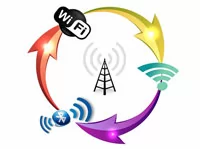
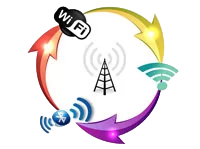
переделаны файлы с картинками - добавлен прозрачный фон

diff --git a/css/style.min.css b/css/style.min.css
@@ -1,1 +1,1 @@
-@media (min-width:320px){.production,.production__item{display:flex;flex-direction:column}.production{margin-top:50px}.production__item{width:100%;padding:10px;margin:0 10px 10px;outline:1px solid #e6e6e6;box-shadow:0 0 8px #e6e6e6;box-sizing:border-box}.production__item:hover{box-shadow:0 0 8px #000}.production__picture{width:100%;margin:10px;text-align:center}.production__picture img{max-width:100%;height:auto}.production__description{width:100%;font-size:.8em}.production__title{text-align:center}.production__features{font-style:italic;margin-bottom:1em}.production__download{position:relative}.production__download svg{position:absolute;top:-2px;left:0;width:20px;height:20px;stroke:red}.production__download:hover svg{stroke:#00f}.production__manual{padding-left:25px;color:#00f}.production__sertificate{color:#00f}.production__price{margin-top:10px;text-align:center}}@media (min-width:480px){.production{align-items:center}.production__item{flex-direction:row;width:65%}}@media (min-width:800px){.production__item{flex-direction:row;width:40%}.production{flex-direction:row;flex-wrap:wrap;align-items:stretch}.production__picture{width:40%;align-self:baseline}.production__description{width:55%}}@media (min-width:1200px){.production__item{width:30%}}@media (min-width:320px){.catalog-header__title{display:block;width:320px;margin:10px auto;text-align:center}}@media (min-width:800px){.catalog-header__title{display:inline-block;margin-left:20px;text-align:left}}@media (min-width:1200px){.catalog-header__title{margin-left:50px}}body,html{height:100%}.wrap-height-block{min-height:100%}.empty-height-container{height:230px}.catalog-main ul li,nav ul li,ul li{list-style:none}a{text-decoration:none;color:inherit;outline:none}.wrapper{width:70%;margin:0 auto}header{background-color:#e6e6e6;padding:10px 0 5px;margin:0}header h1,header picture{display:inline-block;vertical-align:middle}header picture{margin:0;width:300px}header h1{width:40%;margin-left:3%;margin-top:0;font-size:.9em;line-height:1.3em}.contacts{width:180px;float:right;margin-top:15px}.clearfix{content:"";clear:both;display:table}nav ul li{display:inline-block;vertical-align:top;margin-right:70px;font-size:1.3em}.active a{position:relative}.active a:after{position:absolute;content:'';bottom:-24px;left:50%;margin-left:-12px;border:12px solid transparent;border-top:12px solid #e6e6e6;-webkit-animation:triangle 500ms forwards;animation:triangle 500ms forwards}@-webkit-keyframes triangle{0%{opacity:0}to{opacity:1}}@keyframes triangle{0%{opacity:0}to{opacity:1}}p,ul{padding:0;margin:0}nav{float:right;margin-top:15px}nav a{padding:10px 10px 5px}.active a,nav a:hover{color:rgba(0,0,0,.6)}.feedback-form label,.stac{display:block}.catalog-main input[type=radio],.mobile{display:none}header .email,header .phone{position:relative;padding-left:35px}header .phone{margin-bottom:10px}header .email:before,header .phone:before{background:url(../img/sprites.png) no-repeat;position:absolute;content:'';top:1px;left:3px;width:19px;height:19px;background-position:0 0}header .email:before{left:0;width:24px;height:17px;background-position:-21px -1px}.services-main{margin:40px 20px}.services-main h2{position:relative;font-size:1.1em}.services-main h2:hover{cursor:pointer;color:rgba(0,0,0,.7)}.services-main h2:before{left:0}.services-main h2:after,.services-main h2:before{content:'';position:absolute;width:15px;height:4px;top:50%;background-color:#00f}.services-main h2:before{-webkit-transform:rotate(45deg);transform:rotate(45deg)}.services-main h2:after{-webkit-transform:rotate(-45deg);transform:rotate(-45deg);left:8px}@-webkit-keyframes close-animation-triangle{0%{background-color:#00f}to{background-color:#1e90ff}}@keyframes close-animation-triangle{0%{background-color:#00f}to{background-color:#1e90ff}}@-webkit-keyframes close-animation-font{0%{color:#000}to{color:rgba(0,0,0,.6)}}@keyframes close-animation-font{0%{color:#000}to{color:rgba(0,0,0,.6)}}.services-main h2.close{-webkit-animation:close-animation-font 1s forwards;-ms-animation:close-animation-font 1s forwards;animation:close-animation-font 1s forwards}.services-main h2.close:before{left:0}.services-main h2.close:after,.services-main h2.close:before{-webkit-animation:close-animation-triangle 1s forwards;-ms-animation:close-animation-triangle 1s forwards;animation:close-animation-triangle 1s forwards;content:'';position:absolute;width:15px;height:4px;top:50%}.services-main h2.close:before{-webkit-transform:rotate(-45deg);transform:rotate(-45deg)}.services-main h2.close:after{-webkit-transform:rotate(45deg);transform:rotate(45deg);left:8px}.services-main .brief,.services-main .full{padding-left:35px;padding-right:35px}.services-main .full{line-height:1.7em}.service{padding:5px 0 5px 30px;margin-bottom:10px;background-color:#e6e6e6;border-radius:10px}.catalog-main ul label{display:block;padding:10px;background-color:#e6e6e6;cursor:pointer;border-bottom:1px solid #d3d3d3;transition:background-color 300ms}.catalog-main ul li:last-child label{border-bottom:none}#all-catalog:checked~.nav-catalog-block label[for=all-catalog],#equipment:checked~.nav-catalog-block label[for=equipment],#software:checked~.nav-catalog-block label[for=software]{position:relative;background-color:#1e90ff;color:#fff;cursor:default}#all-catalog:checked~.nav-catalog-block label[for=all-catalog]:after,#equipment:checked~.nav-catalog-block label[for=equipment]:after,#software:checked~.nav-catalog-block label[for=software]:after{position:absolute;content:'';cursor:default;right:-14px;top:6px;width:29px;height:29px;background-color:#fff;-webkit-transform:rotate(45deg);transform:rotate(45deg)}.production-block .production-group{display:none}#all-catalog:checked~.production-block .production-group:nth-child(1),#equipment:checked~.production-block .production-group:nth-child(2),#software:checked~.production-block .production-group:nth-child(3){display:-ms-flexbox;display:flex;-ms-flex-wrap:wrap;flex-wrap:wrap}.nav-catalog-block{width:180px;margin-top:50px;float:left}.contacts-main{margin-top:20px;margin-bottom:40px}.feedback-form,.map{box-sizing:border-box}.feedback-form{padding-right:50px;float:left;width:40%}.feedback-form form{width:250px;margin:0 auto}.feedback-form textarea{resize:none}.feedback-form input[type=text],.feedback-form textarea{margin-bottom:10px;display:block}.feedback-form .send-email{padding:5px 10px;display:block;margin:0 auto;cursor:pointer}.feedback-form .request-send-success{margin-top:10px;font-size:11px;text-align:center;color:green}.feedback-form .request-send-error{font-size:12px;text-align:center;color:red}.map{float:right;width:60%;max-height:500px;padding:0 10px}#yandex-map{height:400px}.show-map{display:none}.map-title,.write-us{width:200px;padding:10px 5px;text-align:center;margin:10px auto;background-color:#e6e6e6;border-radius:20px;color:#000;font-size:18px;font-weight:400}.button-back,.show-map{text-align:center;margin:10px auto;background-color:#6495ed}.show-map{color:#000;font-size:18px;font-weight:400;width:200px;padding:10px 5px;border-radius:20px}.feedback-form label.error{font-size:.8em;color:red;font-weight:700;display:block;margin-top:-10px}.feedback-form input.error,.feedback-form textarea.error{background:#ffa9b8;border:1px solid red}.button-back{display:block;width:70px;padding:10px;border-radius:10px}.feedback-item{line-height:1.4em;margin-bottom:.5em}.flex-container{display:-ms-flexbox;display:flex;-ms-flex-align:center;align-items:center;-ms-flex-pack:distribute;justify-content:space-around;-ms-flex-wrap:wrap;flex-wrap:wrap;-ms-flex-direction:row;flex-direction:row}.catalog-footer,.contacts-footer,.services-footer{margin-top:-183px;text-align:center;background-color:#e6e6e6}.company-address,.company-phone{position:relative;padding:20px 0 20px 35px}.company-address:before{width:15px;background:url(../img/address.svg) no-repeat;background-size:15px 30px}.company-address:before,.company-phone:before,.company-web:before{content:'';position:absolute;height:30px;top:50%;margin-top:-15px;left:0}.company-phone:before{background:url(../img/phone.svg) no-repeat;width:15px;background-size:15px 30px}.years{width:130px;margin:10px auto 0;padding-bottom:20px}.company-web{position:relative;padding:20px 0 20px 40px}.company-web:before{width:30px;background:url(../img/web.svg) no-repeat;background-size:30px 30px}@media (max-width:399px){.wrapper{width:100%}.mobile{display:block}.stac,header picture{display:none}header h1,nav{width:auto;text-align:center}header h1{margin-left:0}.contacts{float:none;margin:0 auto}nav{float:none}nav ul li{margin:0 0 10px}nav ul li:last-of-type{margin-bottom:0}.production{display:flex;flex-wrap:wrap}.map{display:none}.show-map{display:block}.feedback-form{float:none;width:100%;padding-right:0}.logo-footer{display:none}.company-address,.company-phone,.company-web{margin-top:0}#yandex-map{border:1px dashed #000}.loading-map-message{-webkit-animation:blinktitle 500ms;animation:blinktitle 500ms}@-webkit-keyframes blinktitle{0%{color:green}to{color:#00008b}}@keyframes blinktitle{0%{color:green}to{color:#00008b}}}@media (min-width:400px) and (max-width:799px){.wrapper{width:100%}header picture{width:auto;display:block}header h1,header picture,nav{text-align:center}header h1{display:block;margin:0 auto;width:90%}.contacts{float:none;margin:0 auto}nav{width:auto;float:none}nav ul li{margin:0 10px 15px}nav ul li:last-of-type{margin-bottom:0}.active a:after{bottom:-24px}.nav-catalog-block,.production-block{float:none;margin:40px auto}.map{float:none;width:100%}#yandex-map{border:1px dashed #000}#yandex-map,.loading-map-message{margin:0 90px}.feedback-form{float:none;width:100%;padding-right:0}.logo-footer{display:none}.company-address,.company-phone,.company-web{margin-top:0}.feedback-items{max-width:380px;margin:0 auto}}@media (min-width:800px) and (max-width:1023px){.wrapper{width:95%}}@media (min-width:1024px){.wrapper{width:96%}.contacts{margin-right:50px}.feedback-items{max-width:380px;margin:0 auto}}
+@media (min-width:320px){.production,.production__item{display:-ms-flexbox;display:flex;-ms-flex-direction:column;flex-direction:column}.production{margin-top:50px}.production__item{width:100%;padding:10px;margin:0 10px 10px;outline:1px solid #e6e6e6;box-shadow:0 0 8px #e6e6e6;box-sizing:border-box}.production__item:hover{box-shadow:0 0 8px #000}.production__picture{width:100%;margin:10px;text-align:center}.production__picture img{max-width:100%;height:auto}.production__description{width:100%;font-size:.8em}.production__title{text-align:center}.production__features{font-style:italic;margin-bottom:1em}.production__download{position:relative}.production__download svg{position:absolute;top:-2px;left:0;width:20px;height:20px;stroke:red}.production__download:hover svg{stroke:#00f}.production__manual{padding-left:25px;color:#00f}.production__sertificate{color:#00f}.production__price{margin-top:10px;text-align:center}}@media (min-width:480px){.production{-ms-flex-align:center;align-items:center}.production__item{-ms-flex-direction:row;flex-direction:row;width:65%}}@media (min-width:800px){.production,.production__item{-ms-flex-direction:row;flex-direction:row}.production__item{width:40%}.production{-ms-flex-wrap:wrap;flex-wrap:wrap;-ms-flex-align:stretch;align-items:stretch}.production__picture{width:40%;-ms-flex-item-align:baseline;align-self:baseline}.production__description{width:55%}}@media (min-width:1200px){.production__item{width:30%}}@media (min-width:320px){.catalog-header__title{display:block;width:320px;margin:10px auto;text-align:center}}@media (min-width:800px){.catalog-header__title{display:inline-block;margin-left:20px;text-align:left}}@media (min-width:1200px){.catalog-header__title{margin-left:50px}}body,html{height:100%}.wrap-height-block{min-height:100%}.empty-height-container{height:230px}.catalog-main ul li,nav ul li,ul li{list-style:none}a{text-decoration:none;color:inherit;outline:none}.wrapper{width:70%;margin:0 auto}header{background-color:#e6e6e6;padding:10px 0 5px;margin:0}header h1,header picture{display:inline-block;vertical-align:middle}header picture{margin:0;width:300px}header h1{width:40%;margin-left:3%;margin-top:0;font-size:.9em;line-height:1.3em}.contacts{width:180px;float:right;margin-top:15px}.clearfix{content:"";clear:both;display:table}nav ul li{display:inline-block;vertical-align:top;margin-right:70px;font-size:1.3em}.active a{position:relative}.active a:after{position:absolute;content:'';bottom:-24px;left:50%;margin-left:-12px;border:12px solid transparent;border-top:12px solid #e6e6e6;-webkit-animation:triangle 500ms forwards;animation:triangle 500ms forwards}@-webkit-keyframes triangle{0%{opacity:0}to{opacity:1}}@keyframes triangle{0%{opacity:0}to{opacity:1}}p,ul{padding:0;margin:0}nav{float:right;margin-top:15px}nav a{padding:10px 10px 5px}.active a,nav a:hover{color:rgba(0,0,0,.6)}.feedback-form label,.stac{display:block}.catalog-main input[type=radio],.mobile{display:none}header .email,header .phone{position:relative;padding-left:35px}header .phone{margin-bottom:10px}header .email:before,header .phone:before{background:url(../img/sprites.png) no-repeat;position:absolute;content:'';top:1px;left:3px;width:19px;height:19px;background-position:0 0}header .email:before{left:0;width:24px;height:17px;background-position:-21px -1px}.services-main{margin:40px 20px}.services-main h2{position:relative;font-size:1.1em}.services-main h2:hover{cursor:pointer;color:rgba(0,0,0,.7)}.services-main h2:before{left:0}.services-main h2:after,.services-main h2:before{content:'';position:absolute;width:15px;height:4px;top:50%;background-color:#00f}.services-main h2:before{-webkit-transform:rotate(45deg);transform:rotate(45deg)}.services-main h2:after{-webkit-transform:rotate(-45deg);transform:rotate(-45deg);left:8px}@-webkit-keyframes close-animation-triangle{0%{background-color:#00f}to{background-color:#1e90ff}}@keyframes close-animation-triangle{0%{background-color:#00f}to{background-color:#1e90ff}}@-webkit-keyframes close-animation-font{0%{color:#000}to{color:rgba(0,0,0,.6)}}@keyframes close-animation-font{0%{color:#000}to{color:rgba(0,0,0,.6)}}.services-main h2.close{-webkit-animation:close-animation-font 1s forwards;-ms-animation:close-animation-font 1s forwards;animation:close-animation-font 1s forwards}.services-main h2.close:before{left:0}.services-main h2.close:after,.services-main h2.close:before{-webkit-animation:close-animation-triangle 1s forwards;-ms-animation:close-animation-triangle 1s forwards;animation:close-animation-triangle 1s forwards;content:'';position:absolute;width:15px;height:4px;top:50%}.services-main h2.close:before{-webkit-transform:rotate(-45deg);transform:rotate(-45deg)}.services-main h2.close:after{-webkit-transform:rotate(45deg);transform:rotate(45deg);left:8px}.services-main .brief,.services-main .full{padding-left:35px;padding-right:35px}.services-main .full{line-height:1.7em}.service{padding:5px 0 5px 30px;margin-bottom:10px;background-color:#e6e6e6;border-radius:10px}.catalog-main ul label{display:block;padding:10px;background-color:#e6e6e6;cursor:pointer;border-bottom:1px solid #d3d3d3;transition:background-color 300ms}.catalog-main ul li:last-child label{border-bottom:none}#all-catalog:checked~.nav-catalog-block label[for=all-catalog],#equipment:checked~.nav-catalog-block label[for=equipment],#software:checked~.nav-catalog-block label[for=software]{position:relative;background-color:#1e90ff;color:#fff;cursor:default}#all-catalog:checked~.nav-catalog-block label[for=all-catalog]:after,#equipment:checked~.nav-catalog-block label[for=equipment]:after,#software:checked~.nav-catalog-block label[for=software]:after{position:absolute;content:'';cursor:default;right:-14px;top:6px;width:29px;height:29px;background-color:#fff;-webkit-transform:rotate(45deg);transform:rotate(45deg)}.production-block .production-group{display:none}#all-catalog:checked~.production-block .production-group:nth-child(1),#equipment:checked~.production-block .production-group:nth-child(2),#software:checked~.production-block .production-group:nth-child(3){display:-ms-flexbox;display:flex;-ms-flex-wrap:wrap;flex-wrap:wrap}.nav-catalog-block{width:180px;margin-top:50px;float:left}.contacts-main{margin-top:20px;margin-bottom:40px}.feedback-form,.map{box-sizing:border-box}.feedback-form{padding-right:50px;float:left;width:40%}.feedback-form form{width:250px;margin:0 auto}.feedback-form textarea{resize:none}.feedback-form input[type=text],.feedback-form textarea{margin-bottom:10px;display:block}.feedback-form .send-email{padding:5px 10px;display:block;margin:0 auto;cursor:pointer}.feedback-form .request-send-success{margin-top:10px;font-size:11px;text-align:center;color:green}.feedback-form .request-send-error{font-size:12px;text-align:center;color:red}.map{float:right;width:60%;max-height:500px;padding:0 10px}#yandex-map{height:400px}.show-map{display:none}.map-title,.write-us{width:200px;padding:10px 5px;text-align:center;margin:10px auto;background-color:#e6e6e6;border-radius:20px;color:#000;font-size:18px;font-weight:400}.button-back,.show-map{text-align:center;margin:10px auto;background-color:#6495ed}.show-map{color:#000;font-size:18px;font-weight:400;width:200px;padding:10px 5px;border-radius:20px}.feedback-form label.error{font-size:.8em;color:red;font-weight:700;display:block;margin-top:-10px}.feedback-form input.error,.feedback-form textarea.error{background:#ffa9b8;border:1px solid red}.button-back{display:block;width:70px;padding:10px;border-radius:10px}.feedback-item{line-height:1.4em;margin-bottom:.5em}.flex-container{display:-ms-flexbox;display:flex;-ms-flex-align:center;align-items:center;-ms-flex-pack:distribute;justify-content:space-around;-ms-flex-wrap:wrap;flex-wrap:wrap;-ms-flex-direction:row;flex-direction:row}.catalog-footer,.contacts-footer,.services-footer{margin-top:-183px;text-align:center;background-color:#e6e6e6}.company-address,.company-phone{position:relative;padding:20px 0 20px 35px}.company-address:before{width:15px;background:url(../img/address.svg) no-repeat;background-size:15px 30px}.company-address:before,.company-phone:before,.company-web:before{content:'';position:absolute;height:30px;top:50%;margin-top:-15px;left:0}.company-phone:before{background:url(../img/phone.svg) no-repeat;width:15px;background-size:15px 30px}.years{width:130px;margin:10px auto 0;padding-bottom:20px}.company-web{position:relative;padding:20px 0 20px 40px}.company-web:before{width:30px;background:url(../img/web.svg) no-repeat;background-size:30px 30px}@media (max-width:399px){.wrapper{width:100%}.mobile{display:block}.stac,header picture{display:none}header h1,nav{width:auto;text-align:center}header h1{margin-left:0}.contacts{float:none;margin:0 auto}nav{float:none}nav ul li{margin:0 0 10px}nav ul li:last-of-type{margin-bottom:0}.production{display:-ms-flexbox;display:flex;-ms-flex-wrap:wrap;flex-wrap:wrap}.map{display:none}.show-map{display:block}.feedback-form{float:none;width:100%;padding-right:0}.logo-footer{display:none}.company-address,.company-phone,.company-web{margin-top:0}#yandex-map{border:1px dashed #000}.loading-map-message{-webkit-animation:blinktitle 500ms;animation:blinktitle 500ms}@-webkit-keyframes blinktitle{0%{color:green}to{color:#00008b}}@keyframes blinktitle{0%{color:green}to{color:#00008b}}}@media (min-width:400px) and (max-width:799px){.wrapper{width:100%}header picture{width:auto;display:block}header h1,header picture,nav{text-align:center}header h1{display:block;margin:0 auto;width:90%}.contacts{float:none;margin:0 auto}nav{width:auto;float:none}nav ul li{margin:0 10px 15px}nav ul li:last-of-type{margin-bottom:0}.active a:after{bottom:-24px}.nav-catalog-block,.production-block{float:none;margin:40px auto}.map{float:none;width:100%}#yandex-map{border:1px dashed #000}#yandex-map,.loading-map-message{margin:0 90px}.feedback-form{float:none;width:100%;padding-right:0}.logo-footer{display:none}.company-address,.company-phone,.company-web{margin-top:0}.feedback-items{max-width:380px;margin:0 auto}}@media (min-width:800px) and (max-width:1023px){.wrapper{width:95%}}@media (min-width:1024px){.wrapper{width:96%}.contacts{margin-right:50px}.feedback-items{max-width:380px;margin:0 auto}}

diff --git a/index.html b/index.html
@@ -105,7 +105,7 @@
           <article class="production__item">
 						<picture class="production__picture">
               <source srcset="img/search-net.webp" type="image/webp">
-							<img src="img/search-net.jpg" alt="Фото Поиск-NET">
+							<img src="img/search-net.png" alt="Фото Поиск-NET">
 						</picture>
               						
 						<div class="production__description">
@@ -122,7 +122,7 @@
           <article class="production__item">
 						<picture class="production__picture">
               <source srcset="img/r3_1.webp" type="image/webp">
-							<img src="img/r3_1.jpg" alt="Фото Соната-Р3.1">
+							<img src="img/r3_1.png" alt="Фото Соната-Р3.1">
 						</picture>
               						
 						<div class="production__description">
@@ -146,7 +146,7 @@
           <article class="production__item">
 						<picture class="production__picture">
               <source srcset="img/sonata-ip4_1.webp" type="image/webp">
-							<img src="img/sonata-ip4_1.jpg" alt="Фото Соната-ИП4.1">
+							<img src="img/sonata-ip4_1.png" alt="Фото Соната-ИП4.1">
 						</picture>
               						
 						<div class="production__description">
@@ -169,7 +169,7 @@
           <article class="production__item">
 						<picture class="production__picture">
               <source srcset="img/sonata-sa_4b.webp" type="image/webp">
-							<img src="img/sonata-sa_4b.jpg" alt="Фото Соната-СА4Б">
+							<img src="img/sonata-sa_4b.png" alt="Фото Соната-СА4Б">
 						</picture>
               						
 						<div class="production__description">
@@ -192,7 +192,7 @@
           <article class="production__item">
 						<picture class="production__picture">
               <source srcset="img/sonata-sv_4b1.webp" type="image/webp">
-							<img src="img/sonata-sv_4b1.jpg" alt="Фото Соната СВ-4Б1">
+							<img src="img/sonata-sv_4b1.png" alt="Фото Соната СВ-4Б1">
 						</picture>
               						
 						<div class="production__description">
@@ -208,6 +208,47 @@
               </p>
 							<p class="production__price">
                 Стоимость: 4 000 руб.
+              </p>									
+						</div>								
+					</article>
+          
+          <article class="production__item">
+						<picture class="production__picture">
+              <source srcset="img/straj-nt.webp" type="image/webp">
+							<img src="img/straj-nt.png" alt="Фото Страж-NT 4.0">
+						</picture>
+              						
+						<div class="production__description">
+							<h2 class="production__title">Страж-NT 4.0</h2>
+							<p class="production__features">
+                Система защиты информации от несанкционированного доступа Страж NТ (версия 4.0)
+              </p>
+              <p class="production__sertificate">                
+                Сертификат ФСТЭК России № 3553 (действителен до 20.04.2019)                                
+              </p>
+							<p class="production__price">
+                Стоимость: 10 000 руб.
+              </p>									
+						</div>								
+					</article>
+          
+          <article class="production__item">
+						<picture class="production__picture">
+              <source srcset="img/dallas-lock_8.0_S.webp" type="image/webp">
+							<img src="img/dallas-lock_8.0_S.png" alt="Фото Dallas Lock 8.0-C">
+						</picture>
+              						
+						<div class="production__description">
+							<h2 class="production__title">Dallas Lock 8.0-С</h2>
+							<p class="production__features">
+                Система защиты информации от несанкционированного доступа Dallas Lock 8.0-C 
+                (для защиты информации, составляющей государственную тайну)
+              </p>
+              <p class="production__sertificate">                
+                Сертификат ФСТЭК России № 2945 (действителен до 16.08.2019)                                
+              </p>
+							<p class="production__price">
+                Стоимость: 10 000 руб.
               </p>									
 						</div>								
 					</article>

diff --git a/css/style.css b/css/style.css
@@ -1,13 +1,17 @@
 @media (min-width: 320px) {
   .production {
     margin-top: 50px;
+    display: -ms-flexbox;
     display: flex;
-    flex-direction: column;
+    -ms-flex-direction: column;
+        flex-direction: column;
   }
   .production__item {
     width: 100%;
+    display: -ms-flexbox;
     display: flex;
-    flex-direction: column;
+    -ms-flex-direction: column;
+        flex-direction: column;
     padding: 10px;
     margin: 0 10px 10px;
     outline: 1px solid #e6e6e6;
@@ -65,26 +69,33 @@
 }
 @media (min-width: 480px) {
   .production {
-    align-items: center;
+    -ms-flex-align: center;
+        align-items: center;
   }
   .production__item {
-    flex-direction: row;
+    -ms-flex-direction: row;
+        flex-direction: row;
     width: 65%;
   }
 }
 @media (min-width: 800px) {
   .production__item {
-    flex-direction: row;
+    -ms-flex-direction: row;
+        flex-direction: row;
     width: 40%;
   }
   .production {
-    flex-direction: row;
-    flex-wrap: wrap;
-    align-items: stretch;
+    -ms-flex-direction: row;
+        flex-direction: row;
+    -ms-flex-wrap: wrap;
+        flex-wrap: wrap;
+    -ms-flex-align: stretch;
+        align-items: stretch;
   }
   .production__picture {
     width: 40%;
-    align-self: baseline;
+    -ms-flex-item-align: baseline;
+        align-self: baseline;
   }
   .production__description {
     width: 55%;
@@ -641,8 +652,10 @@ header .email:before {
     margin-bottom: 0;
   }
   .production {
+    display: -ms-flexbox;
     display: flex;
-    flex-wrap: wrap;
+    -ms-flex-wrap: wrap;
+        flex-wrap: wrap;
   }
   .map {
     display: none;
